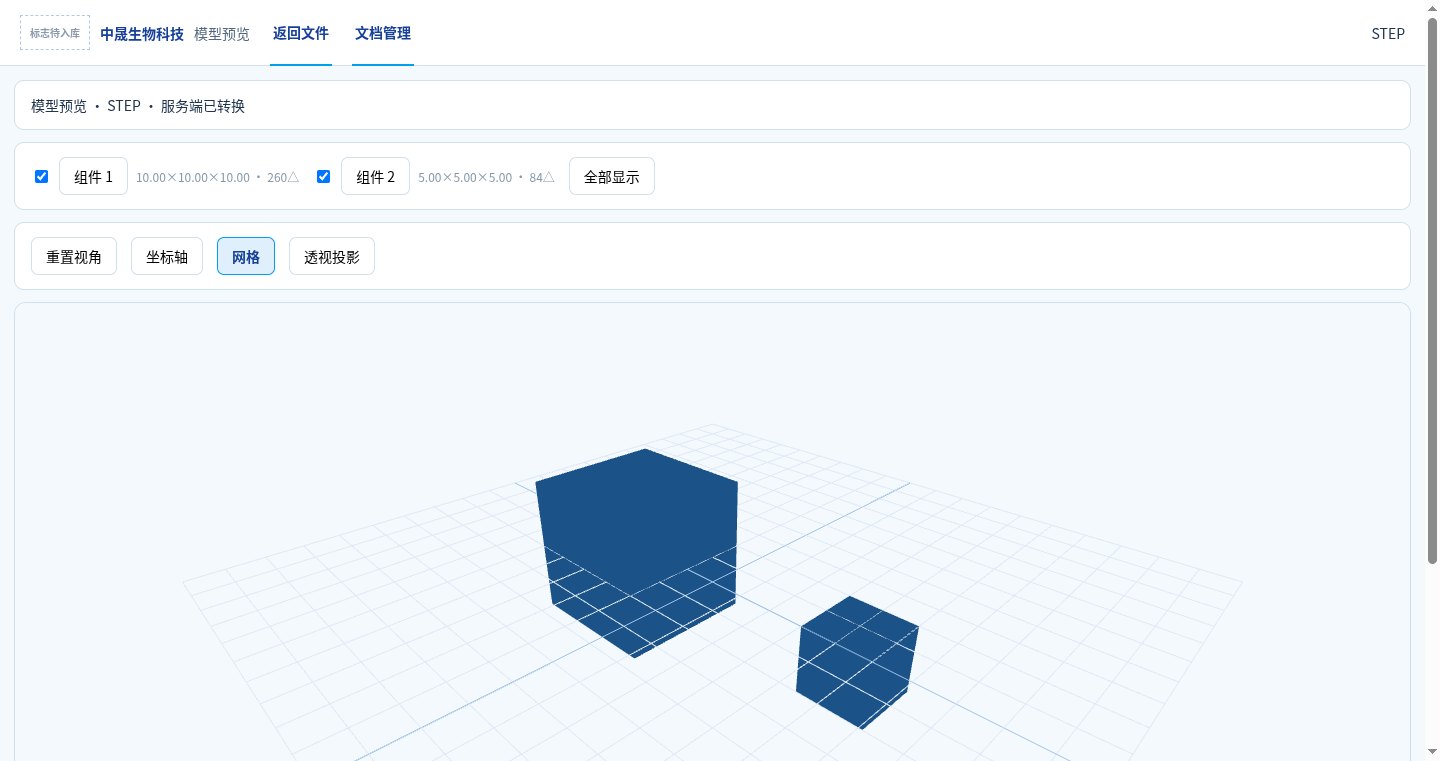
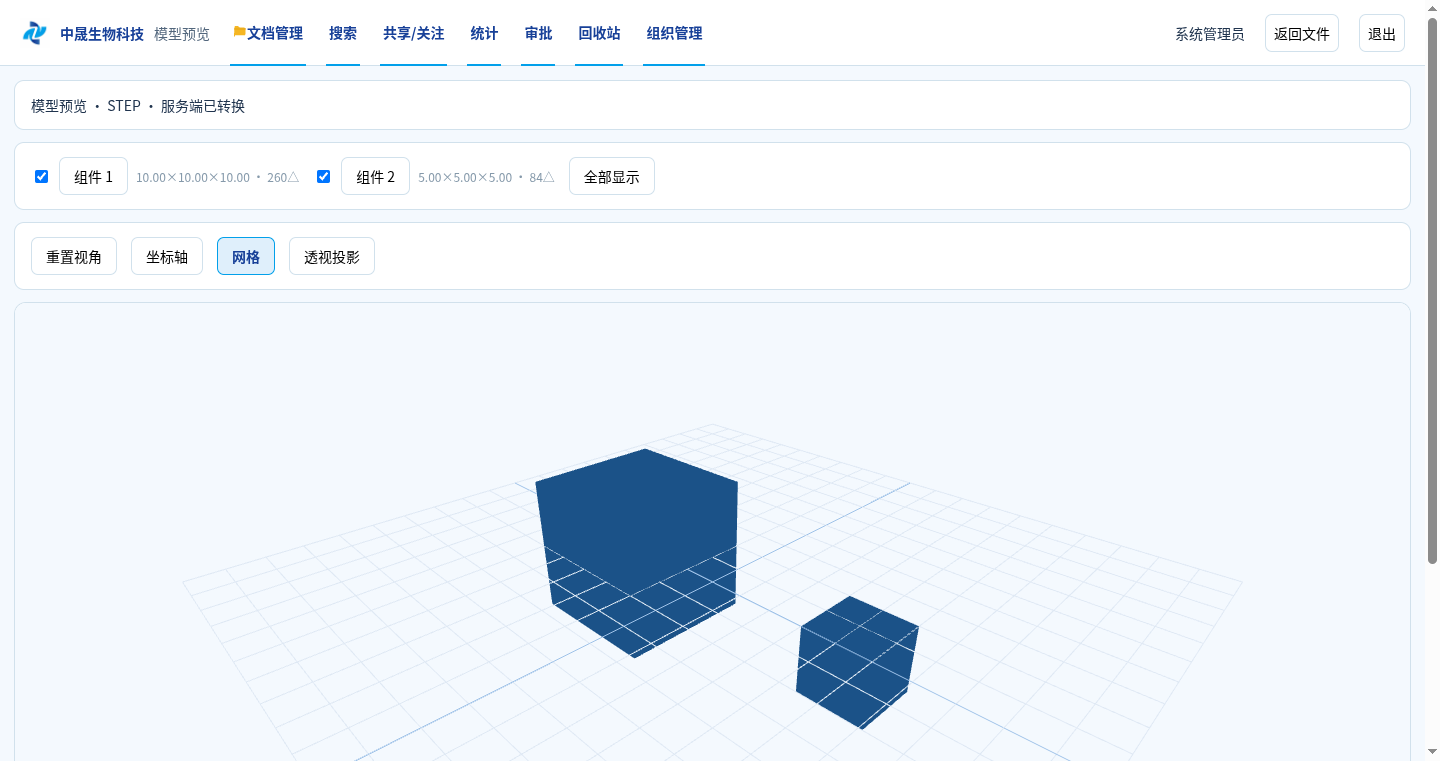
Evidence: brand asset import gates and refreshed screenshots (2026-10-09)

Changed region(s): [[0.0, 0.0302, 0.5, 0.0604], [0.8125, 0.0302, 0.9688, 0.0604]]

diff --git a/docs/TEST-EVIDENCE.md b/docs/TEST-EVIDENCE.md
@@ -1112,3 +1112,16 @@ semantics documented per operation. `python3 scripts/gen_openapi.py --check`
 fails when the router changes without regenerating the contract; the same
 check now runs inside `scripts/build.sh` (negative-tested: appending one
 line to the YAML makes the gate exit 1, restoring it passes).
+
+## Brand asset import (2026-10-09, executed on 192.168.1.22)
+
+| Item | Result |
+|---|---|
[1 lines of base64/hex data omitted]
+| Derived assets | favicon 16/32/48px + login/topbar `logo-256.png`, regenerated by `python3 scripts/brand_assets.py` (replayable conversion, source hash re-verified on every run); derived manifest `web/public/assets/brand/BRAND-ASSETS.md` |
+| Build gate | `scripts/build.sh --with-tests` BUILD_OK (tsc + vite 100 modules, go vet, architecture, OpenAPI 52 paths no drift, matrix 126 ids, go tests, migrations 11) |
+| Static serving (BRAND-07) | `/assets/brand/favicon-16.png` 200 (600 B) and `/assets/brand/logo-256.png` 200 (21815 B) on 18091; `<title>中晟生物科技 · 文档管理系统</title>` |
+| Login page (BG01/VS01) | `docs/evidence/01-login.png`: logo rendered (brand-cyan bbox 546,174–613,220, 1341 px); OCR reads 中晟生物科技 / 文档管理系统 above the form |
+| Topbar (VS01/BG02) | `scripts/ux_desktop_check.mjs` 89/89 — VIS-09 asserts `img.brand-logo` loads (naturalWidth>0, non-zero box) on every route; header screenshot shows the mark from x=24,y=26 (30px) |
+| Regression | `scripts/browser_journey_check.mjs` 19/19; `scripts/capture_evidence.mjs` refreshed all 9 screenshots (login card and topbar now carry the official mark) |
+| Remaining | S20 stays PARTIAL: the screenshots above are the VS01–VS18 evidence; human sign-off per VS18 (fixed data/roles/viewports) is still owed. BLK-01 closed. |
